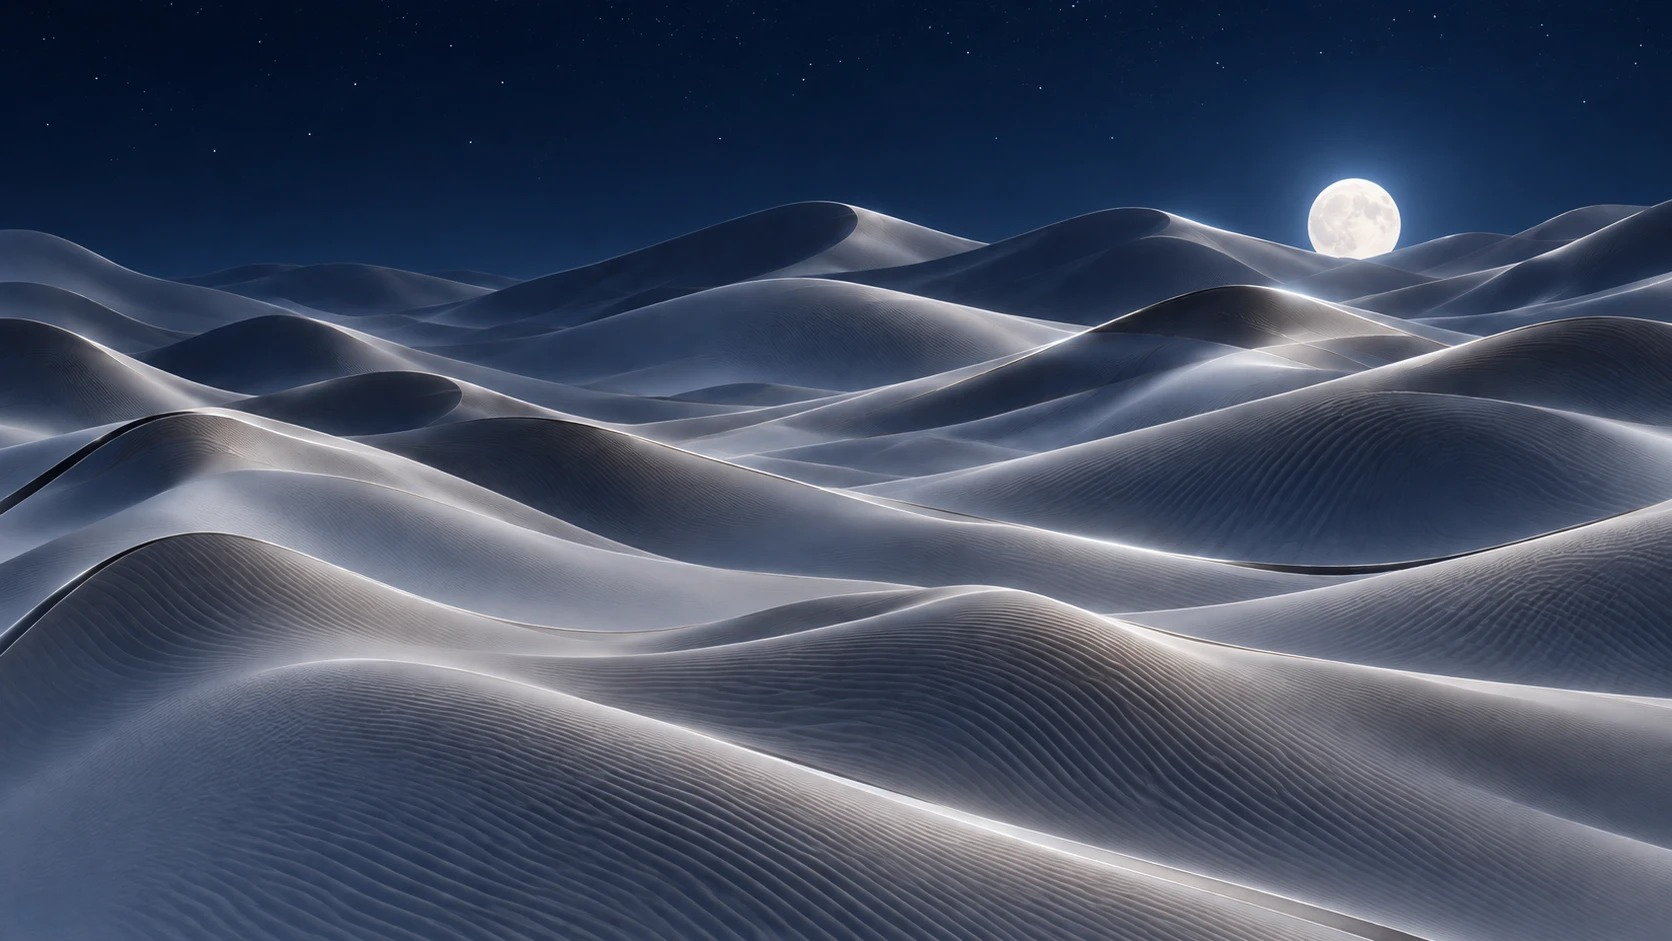
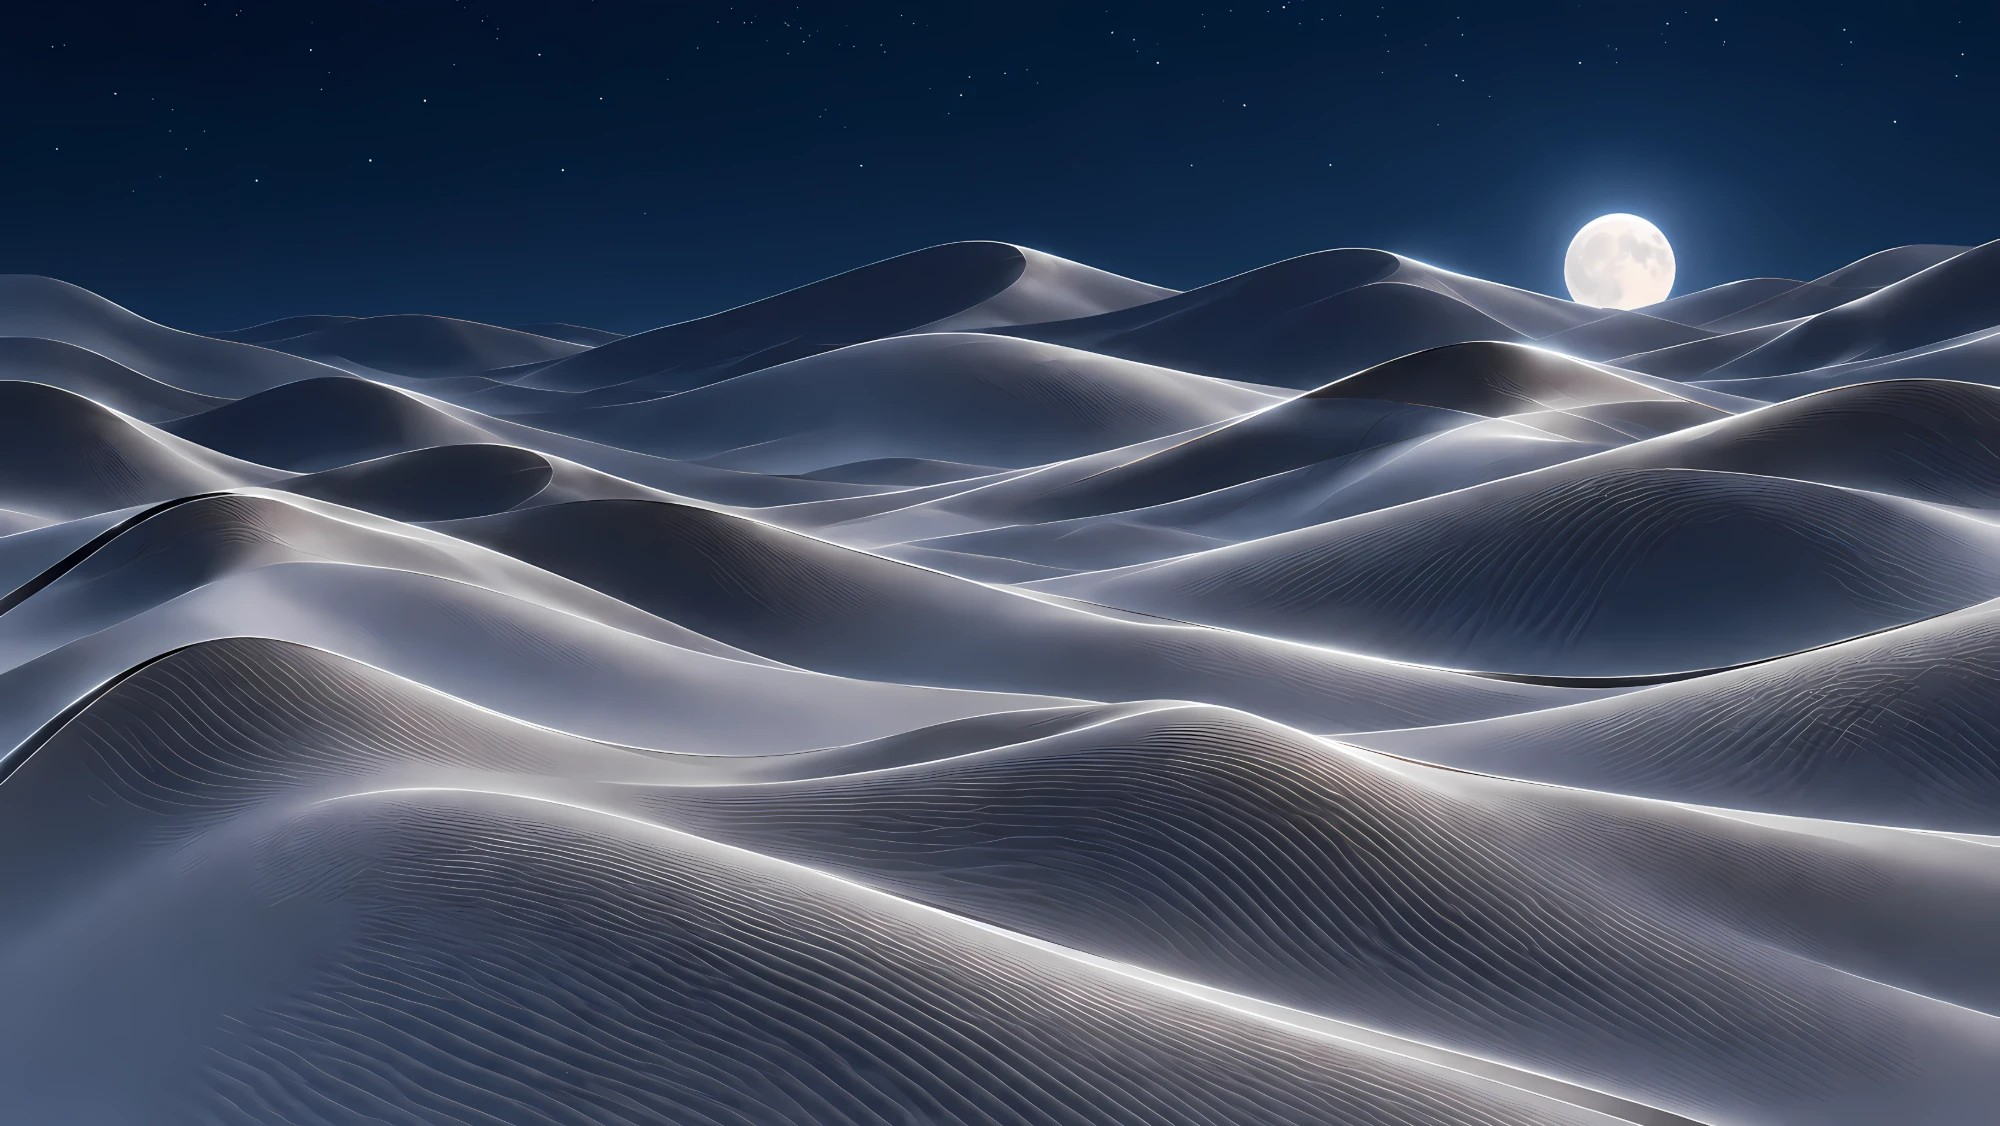
Le paysage passe à une version plus nette
Les images des dunes sont remplacées par les versions agrandies de
Victor. Leurs copies floutées, pour le verre, sont faites au quart de la
taille : floutées, elles n'y perdent rien et tiennent seize fois moins
de place en mémoire (D307).

À l'usage : des dunes plus nettes dans le bandeau, la barre de gauche et
les cartes.

diff --git a/docs/DECISIONS.md b/docs/DECISIONS.md
@@ -4735,6 +4735,14 @@ L'interface ne décide rien. Où en est un ordinateur et par quelle route on le 
 
 **Ce qui se voit.** Un bloc d'accès en verre, des cartes aux dunes toutes différentes, et le processeur écrit en entier.
 
+## D307. Le paysage passe à une version plus nette (2026-10-14, pendant MZ)
+
+**Pourquoi.** Les images du paysage ([D303](#d303-un-paysage-de-dunes-habille-le-bandeau-et-la-barre-de-gauche-2026-10-14-pendant-mz)) faisaient 1672 pixels de large et se voyaient agrandies sur un grand écran. Victor les a agrandies proprement.
+
+**Ce qui est fait.** Les deux images sont remplacées par leurs versions agrandies, telles qu'elles sont arrivées (2000 pixels de large). Leurs copies floutées, pour le verre, sont faites au quart de cette taille : floutée, une image ne perd rien à être petite, et elle tient seize fois moins de place en mémoire.
+
+**Ce qui se voit.** Des dunes plus nettes dans le bandeau, la barre de gauche et les cartes.
+
 ## Décisions ouvertes (défauts proposés, à confirmer avant le jalon concerné)
 
 - O1 (avant M5). Concurrence de sessions : défaut = 1 spectateur entrant actif avec reprise possible (takeover), plusieurs sessions sortantes autorisées.
